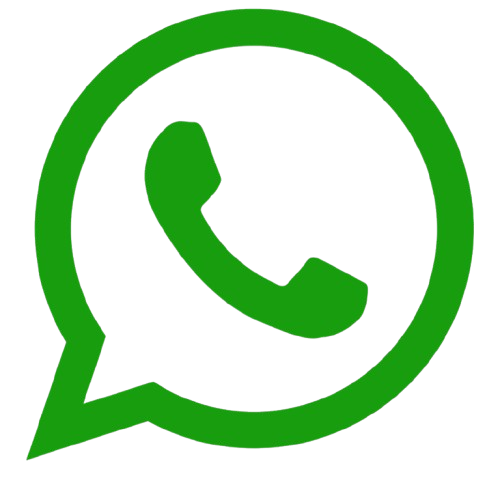
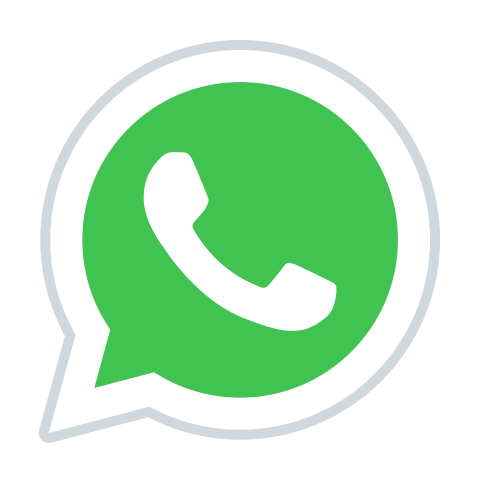
created floating whatasapp button

diff --git a/components/OurAddress.vue b/components/OurAddress.vue
@@ -5,11 +5,17 @@
             <p class="mt-5 text-balance lg:w-3/4">Rua do comercio, 436, edf. Lobão Barreto - sala 507, Centro, Maceió - AL</p>                            
         </div>
         <div class="mt-5">
-            <p  class="font-bold text-2xl lg:text-lg">Localização:</p>
-            <a href="https://www.google.com/maps/place/Condom%C3%ADnio+Lob%C3%A3o+Barreto/@-9.6627966,-35.737875,103m/data=!3m1!1e3!4m6!3m5!1s0x701457fa477416d:0x4928ded8759c6b42!8m2!3d-9.6627764!4d-35.7377317!16s%2Fg%2F1tdlhh2r?entry=ttu&g_ep=EgoyMDI0MTAyNy4wIKXMDSoASAFQAw%3D%3D" target="_blank">
-                <img class="mt-5 w-10/12 h-auto lg:w-64 md:h-64 m-auto lg:m-0" src="~/assets/imgs/location-preview.webp">
+            <p  class="mb-5 font-bold text-2xl lg:text-lg">Localização:</p>
+            <a :href="linkCoordinates" target="_blank">
+                <img class="w-10/12 sm:w-6/12 h-auto lg:w-64 md:h-64 m-auto lg:m-0" src="~/assets/imgs/location-preview.webp">
             </a>    
         </div>
     </div>
 </template>
+
+<script setup lang="ts">
+
+const linkCoordinates:string = 'https://www.google.com/maps/place/Condom%C3%ADnio+Lob%C3%A3o+Barreto/@-9.6648506,-35.752564,5556m/data=!3m1!1e3!4m6!3m5!1s0x701457fa477416d:0x4928ded8759c6b42!8m2!3d-9.6627764!4d-35.7377317!16s%2Fg%2F1tdlhh2r?entry=ttu&g_ep=EgoyMDI0MTAyNy4wIKXMDSoASAFQAw%3D%3D'
+
+</script>
 

diff --git a/pages/services.vue b/pages/services.vue
@@ -1,14 +1,48 @@
 <template>
-    <Header />    
-       services
-        <div></div>     
+    <Header />  
+    <main>
+      <FloatingWhatsappButton />
+      <section class="mt-5">
+        <h1>Serviços</h1>
+        <div v-for="(service, index) in services" :key="index" class="">
+          <img :src="`~/assets/imgs/${service.img}.webp`" alt="Serviço imagem" class="w-full h-auto mb-3" />
+          <p class="text-lg">{{ service.description }}</p>
+        </div>
+      </section>
+    </main>  
+
     <Footer />
-</template>
+  </template>
+  
+  <script setup lang="ts">
 
-<script setup>
+  interface Service {
+    img: string;
+    description: string;
+  }
+  
+  const services: Service[] = [
+    {
+      img: '1',
+      description: "Serviços de montagem e manutenção de elevadores, esteiras e escadas rolantes."
+    },
+    {
+      img: '2',
+      description: "Serviços de montagem e manutenção de refrigeração e climatização comercial."
+    },
+    {
+      img: '3',
+      description: "Serviços de manutenção em geradores."
+    },
+    {
+      img: '4',
+      description: "Manutenção em inversores de frequência."
+    },
+    {
+      img: '5',
+      description: "Serviço de manutenção elétrica e automação industrial."
+    }
+  ];
 
-</script>
-
-<style lang="scss" scoped>
-
-</style>
+  </script>
+  

diff --git a/components/MoreInformation.vue b/components/MoreInformation.vue
@@ -1,14 +1,14 @@
 <template>
-    <section class="flex lg:justify-evenly lg:items-start flex-col lg:flex-row flex-wrap lg:flex-nowrap py-20 px-2 lg:px-15 text-xl lg:text-base bg-stone-100">   
-        <div>
+    <section class="flex lg:justify-evenly lg:items-start flex-col lg:flex-row flex-wrap lg:flex-nowrap py-20 px-2 lg:px-15 text-base bg-stone-100">   
+        <div class="w-auto">
             <OpeningHours />
             <OurPhoneNumber />
             <QrCode/>
         </div>      
-        <div>
+        <div class="w-auto">
             <OurEmails />
         </div>       
-        <div>
+        <div class="w-auto">
             <OurAddress />            
         </div>
         

diff --git a/components/QrCode.vue b/components/QrCode.vue
@@ -13,13 +13,13 @@
   const url = useGlobalData();    
 
   onMounted(() => {
-    if (qrCanvas.value) {
-      QRCode.toCanvas(qrCanvas.value, url, (error) => {
-        if (error) console.error(error)
-        else console.log('QR Code generated successfully!')
-      })
-    }
-  })
+  if (qrCanvas.value) {
+    QRCode.toCanvas(qrCanvas.value, url, (error: Error | null) => {
+      if (error) console.error(error)
+      else console.log('QR Code generated successfully!')
+    })
+  }
+})
 </script>
   
 

diff --git a/components/OurPhoneNumber.vue b/components/OurPhoneNumber.vue
@@ -1,6 +1,6 @@
 <template>
     <div class="text-center lg:text-start">                
-        <p class="my-5 font-bold text-2xl lg:text-lg">Telefone / Whatsapp:</p>
+        <p class="my-5 font-bold text-2xl lg:text-lg">Telefone | Whatsapp:</p>
         <a class="text-blue-700 inline-flex" :href="useGlobalData()" target="_blank">
             <img class="w-8 h-8 lg:w-6 lg:h-auto mr-1" src="~/assets/imgs/whatsapp-icon.webp">
             <span>(82) 99876-5432</span>

diff --git a/components/FloatingWhatsappButton.vue b/components/FloatingWhatsappButton.vue
@@ -1,0 +1,9 @@
+<template>
+    <a :href="useGlobalData()" target="_blank">
+        <button class="mr-2 w-12 h-12 rounded-full bg-gray-300 fixed inset-y-1/2 right-0 z-10 animate-bounce ease-out">
+            <img class="w-10 h-10 m-auto" src="~/assets/imgs/whatsapp-icon.webp">
+        </button>
+    </a>
+</template>
+
+ 

diff --git a/pages/about.vue b/pages/about.vue
@@ -1,7 +1,9 @@
 <template>
-    <Header />    
-        about
-        <div></div>     
+    <Header />          
+        <main>
+            about
+            <FloatingWhatsappButton />
+        </main>     
     <Footer />
 </template>
 

diff --git a/types/qrcode.d.ts b/types/qrcode.d.ts
@@ -1,0 +1,8 @@
+declare module 'qrcode' {
+    export function toCanvas(
+      canvas: HTMLCanvasElement,
+      text: string,
+      callback: (error: Error | null) => void
+    ): void;
+  }
+  

diff --git a/pages/index.vue b/pages/index.vue
@@ -3,6 +3,7 @@
         <Header /> 
         <main>
             <Intro />
+            <FloatingWhatsappButton />
         </main>             
         <Footer />
     </div>
